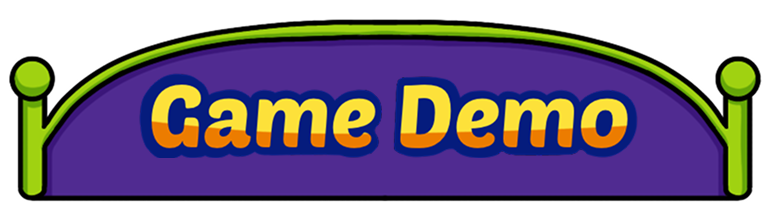
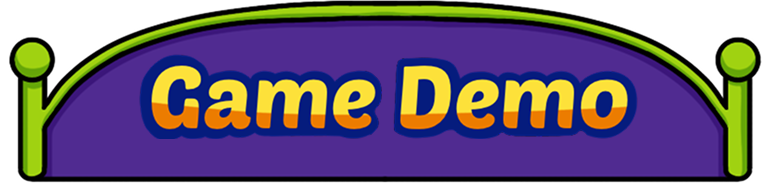
mobile optimization and frame replacement

diff --git a/assets/css/style.css b/assets/css/style.css
@@ -216,11 +216,13 @@
   z-index: 2;
 
 
+
 }
 
 #section-2 .bottom-stack{
 
   position: relative;
+
 
 
 }
@@ -234,9 +236,30 @@
   left: 50%;
   top:40%;
   transform: translate(-50%, -100%); 
+
+
+
  
 }
 
+
+#section-2 .container .game-frame{
+  position: absolute;
+  z-index: 0;
+  left: 50%;
+  transform: translate(-50%, -100%);
+
+
+
+  width: 100%;
+  max-width: 500px;
+
+
+
+  /* background: yellow; */
+
+ 
+}
 
 #section-2 img{
   width: 100%;  
@@ -270,21 +293,66 @@
   top: 0;
   left: 0;
   z-index: 2;
-  width: 100%;
-  height: 100%;
+
+  left: 50%;
+  top: 50%;
+  transform: translate(-50%, -50%);
+  padding: 5rem 2rem;
+  border-radius:30px;
+
+
+
   background: transparent;
+    background-color: #F9EF60;
   text-align: center;
-  line-height: 600px;
-  color: white;
+
+
   font-size: 20px;
   font-weight: bold;
   backdrop-filter: blur(2px);
   cursor: pointer;
 
+  display: flex;
+  flex-direction: column;
+  justify-content: center;
+  align-items: center;
+
+
+
+
+
  
 }
+
+
+#section-2 #overlay h1{
+  font-family: 'myFont';
+  color: #5A3400;
+
+}
+#section-2 #overlay p{
+  font-size: 0.8rem;
+   color: #5A3400;
+     margin-top: 2rem;
+}
+
 #section-2 .correct{
-  width: 25px;
+  width: 50px;
+    margin-top: 2rem;
+}
+
+
+#unity-frame {
+
+  /* border: 5px solid black; */
+  border-radius: 30px;
+  padding: 0.2rem;
+
+
+  background-color: #a2d210;
+  border: 1px solid black;
+  border-radius: 50px;
+
 }
 /* ---------------------------------------------- */
 
@@ -1455,7 +1523,11 @@
     display: none;
   }
 
-  @media (max-width: 900px) {
+
+
+
+
+  @media ( max-width: 900px) {
     html{
       background-image: url("../img/bg-mobile.jpeg");
        background-size: cover; 
@@ -1539,7 +1611,7 @@
     }
     #mobile .mobile{
 
-      background: green;
+      /* background: green; */
       /* position: absolute;
       bottom: 0px; */
     }
@@ -1619,6 +1691,18 @@
     }
   }
 
+
+@media (max-width: 500px) and (max-height: 800px) {
+
+    #imp-not{
+      max-width:250px !important;
+    }
+    #logo-m{
+      max-width: 200px !important;
+    }
+
+  }
+
   @media (min-width: 1900px){
     #main .content .main{
       width: 100vw;
@@ -1653,5 +1737,9 @@
       font-size: 1.2rem;
     }
   }
+
+
+
+
 
   

diff --git a/index.html b/index.html
@@ -119,17 +119,16 @@
     <div id="section-2">
       <div class="bottom-stack">
         <div class="container">
-          <img src="assets/img/game-demo.png" alt="game-demo" class="game-frame">
+          <img src="assets/img/Title.png" alt="game-demo" class="game-frame">
           <div id="game-wrapper">
             <div id="overlay">
-              <!-- <h1>HEADS UP!</h1>
+              <h1>HEADS UP!</h1>
               <p>You're playing a demo version built to preview core gameplay.
                 The full experience will include more features, mechanics, and upgrades.
-                Check out the roadmap in our whitepaper to see what's coming next.</p> -->
+                Check out the roadmap in our whitepaper to see what's coming next.</p>
               <img src="assets/img/correct.png" class="img-fluid correct" alt="">
             </div>
-            <iframe id="unity-frame" src="Game/index.html" width="100%" height="600" frameborder="0"
-              allowfullscreen></iframe>
+            <iframe id="unity-frame" src="Game/index.html" frameborder="0" allowfullscreen></iframe>
           </div>
 
         </div>
@@ -379,8 +378,8 @@
     <img src="assets/img/mobile-terrain.png" alt="terrain" class="terrain-m">
 
     <div class="mobile-container">
-      <img src="assets/img/m-6.png" class="img-fluid w-75 mb-3" alt="">
-      <img src="assets/img/logo-m.png" class="img-fluid w-50 mb-3" alt="">
+      <img src="assets/img/m-6.png" id="imp-not" class="img-fluid w-75 mb-3" alt="">
+      <img src="assets/img/logo-m.png" id="logo-m" class="img-fluid w-50 mb-3" alt="">
       <div class="mobile-ca mb-3">
         <div class="mobile-ca-list p-2 px-3 hidden-ca">
           <p class="mb-0"> CA : XXXXXXXXXXXXX <br> XXXXXXXXXXXXX</p>
